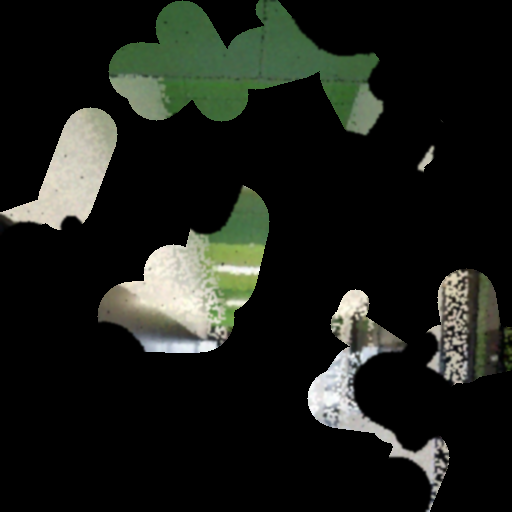
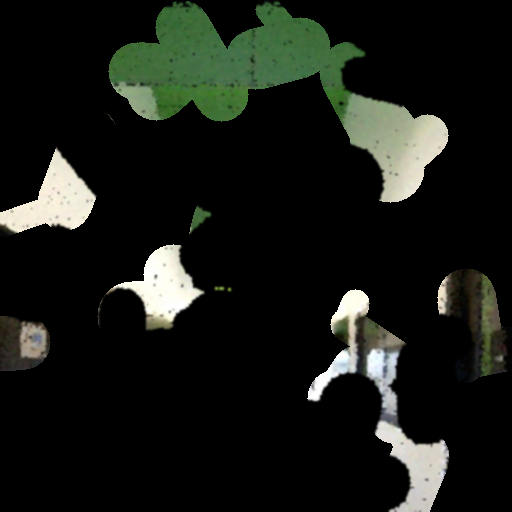
commit codes

diff --git a/input_data_generation.py b/input_data_generation.py
@@ -143,23 +143,53 @@ transforms_guide = transforms.Compose([
     transforms.ToTensor()
 ])
 
+# ground truth image and guideline: I_gt, L_gt
 img, guide = transform(read_img(img_path), read_img(guide_path))
 guide = torch.round(guide[0])
 
+# color prior
 color_prior = random_color_prior(img) # img shape: torch.Size([3, 512, 512])
+# imperfect guieline: \widetilde{L}
 imperfect_guideline = random_gl_pt(guide) # guide shape: torch.Size([1, 512, 512])
 
-# guide_perturb
-img_save = Image.fromarray(np.array(imperfect_guideline[0] * 255).astype('uint8'), 'L')
-img_save.save('./data/result_guide.png')
+# mask, M
+# mask = (np.array(read_img(mask_path))>0).astype('uint8')
+mask = np.array(read_img(mask_path))
+toTensor = transforms.ToTensor()
+mask_tensor = toTensor(mask)
 
-# mask
-mask = (np.array(read_img(mask_path))>0).astype('uint8')
+# no_color_mask, M_cp
+no_color = ((color_prior + (1 - mask_tensor)) == 0)  # need to check
+no_color = ((no_color[0, :, :] + no_color[1, :, :] + no_color[2, :, :]) > 1.5).unsqueeze(2).type(torch.float32)
 
-# color_prior * mask
+# no_edge_zone, N
+no_edge = cv2.Canny(np.array(no_color * 255).astype('uint8'), 100, 200)
+kernel = np.ones([(np.round(img.shape[1]/100)).astype('uint8'), (np.round(img.shape[2])/100).astype('uint8')])
+no_edge = cv2.dilate(no_edge, kernel)
+no_edge = torch.tensor(no_edge / 255).unsqueeze(0).type(torch.float32)
+no_edge = (1 - guide) * no_edge
+
+transPIL = transforms.ToPILImage()
+
+# save cropped ground truth image and guideline: I_gt, L_gt
+img_save = Image.fromarray(np.array(img * 255).astype('uint8').transpose(1, 2, 0), 'RGB')
+img_save.save('./data/result_crop_image_gt.png')
+img_save = Image.fromarray(np.array(guide * 255).astype('uint8'), 'L')
+img_save.save('./data/result_crop_guideline_gt.png')
+
+# save color prior: I_cp ( color_prior * mask )
+mask = (mask>0).astype('uint8')
 img_save = Image.fromarray(np.array(color_prior* 255).astype('uint8').transpose(1, 2, 0)*mask, 'RGB')
 img_save.save('./data/result_color_prior.png')
 
-# imgage
-img_save = Image.fromarray(np.array(img * 255).astype('uint8').transpose(1, 2, 0), 'RGB')
-img_save.save('./data/result_crop_image.png')
+# save imperfect guieline: \widetilde{L}
+img_save = Image.fromarray(np.array(imperfect_guideline[0] * 255).astype('uint8'), 'L')
+img_save.save('./data/result_imperfect_guideline.png')
+
+# save no_color_mask, M_cp
+img_save = transPIL(no_color.permute(2,0,1))
+img_save.save('./data/result_no_color_mask.png')
+
+# save no_edge_zone, N
+img_save = transPIL(no_edge)
+img_save.save('./data/result_no_edge_zone.png')

diff --git a/model.py b/model.py
@@ -251,7 +251,6 @@ class SNDirciminator(nn.Module):
 class Self_Attn(nn.Module):
     """
         Self attention Layer
-        pytorch implementation from : https://github.com/avalonstrel/GatedConvolution_pytorch
     """
     def __init__(self,in_dim,activation,with_attn=False):
         super(Self_Attn,self).__init__()
@@ -289,9 +288,7 @@ class Self_Attn(nn.Module):
             return out
 
 class ContextualAttention(nn.Module):
-    """
-    pytorch implementation from : https://github.com/DAA233/generative-inpainting-pytorch
-    """
+
     def __init__(self, ksize=3, stride=1, rate=1, fuse_k=3, softmax_scale=10,
                  fuse=False, use_cuda=True, device_ids=None):
         super(ContextualAttention, self).__init__()

diff --git a/source/networks.py b/source/networks.py
@@ -2,9 +2,7 @@ import torch
 import numpy as np
 import torch.nn.functional as F
 import torch.nn as nn
-'''
-    pytorch implementations from : https://github.com/avalonstrel/GatedConvolution_pytorch
-'''
+
 def get_pad(in_,  ksize, stride, atrous=1):
     out_ = np.ceil(float(in_)/stride)
     return int(((out_ - 1) * stride + atrous*(ksize-1) + 1 - in_)/2)

diff --git a/source/tools.py b/source/tools.py
@@ -5,10 +5,6 @@ import numpy as np
 from PIL import Image
 import torch.nn.functional as F
 
-'''
-    source code from : https://github.com/DAA233/generative-inpainting-pytorch
-'''
-
 def pil_loader(path):
     # open path as file to avoid ResourceWarning (https://github.com/python-pillow/Pillow/issues/835)
     with open(path, 'rb') as f:

diff --git a/README.md b/README.md
@@ -1,3 +1,5 @@
-# Generative Multi-view Inpainting for Image-based Rendering of Large Indoor Spaces
+# Generative Multi-view Inpainting \\for Image-based Rendering of Large Indoor Spaces
+
+[image1](./data/result_imperfect_guideline.png)
 
 ## Citation
